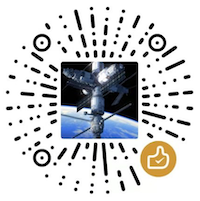
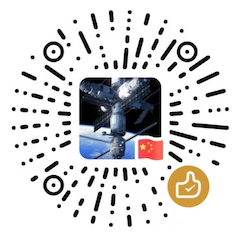
二维码更新

diff --git a/.vuepress/theme/components/Sidebar.vue b/.vuepress/theme/components/Sidebar.vue
@@ -18,9 +18,8 @@
         <strong><a href="https://github.com/shaohq/kuboard-issues/issues" target="_blank">提交 BUG</a></strong>
       </p>
       <strong>在线答疑</strong>
-      <p>
-        <Qq/>
-      </p>
+      <Qq/>
+
       <p>
         <img src="/images/kuboard_qq.png" alt="Kubernetes教程：QQ群在线答疑"/>
       </p>

diff --git a/support/index.md b/support/index.md
@@ -14,7 +14,7 @@ description: Kubernetes教程_本文描述了如何获得Kuboard授权
 
 ## Kuboard 支持
 
-### QQ社群支持
+### QQ群在线答疑
 
   <p>
     <Qq/>
@@ -25,12 +25,12 @@ description: Kubernetes教程_本文描述了如何获得Kuboard授权
 
 ### 微信即时答复
 
-* QQ群里的人数越来越多，热心的网友也越来越多，作者每天只能抽出一部分时间回答QQ群里的问题
-* 微信群聊里的问题，通常可立刻答复，并承诺2小时内给出解答
+* 非常能够理解大家学习 Kubernetes 的热情，QQ群人数有了一个快速的增长
+* 为了给真正需要的人分配更多提问机会，设置了微信群聊
 * 必要时可提供 TeamViewer 远程协助
 <div>
   <div style="margin-top: 10px;">
-      <span>扫第一个二维码完成打赏，扫第二个进微信群聊。</span>
+      <span>扫第一个二维码完成打赏，扫第二个加微信进群聊（请发送打赏截图）</span>
     <p style="margin-top: 10px;">
       <img src="/images/dz.png" style="width: 200px; margin-right: 150px;"></img>
       <img src="/images/dz2.jpeg" style="width: 200px;"></img>
